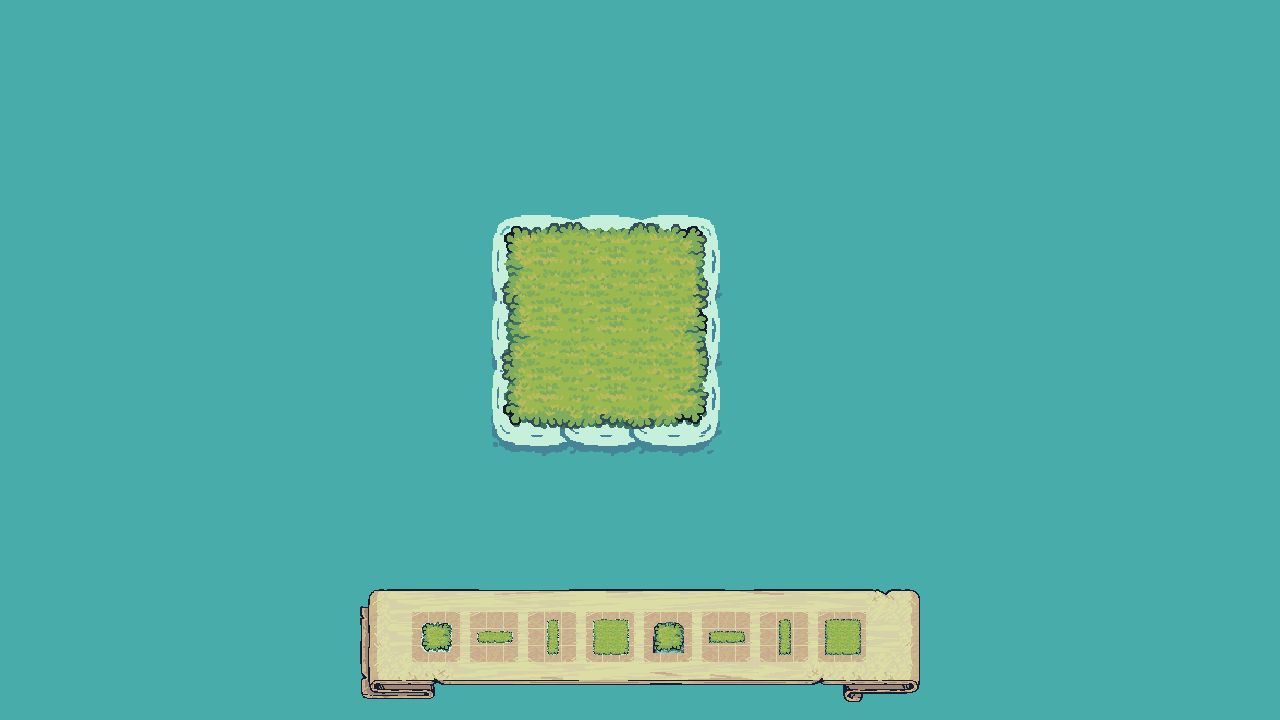
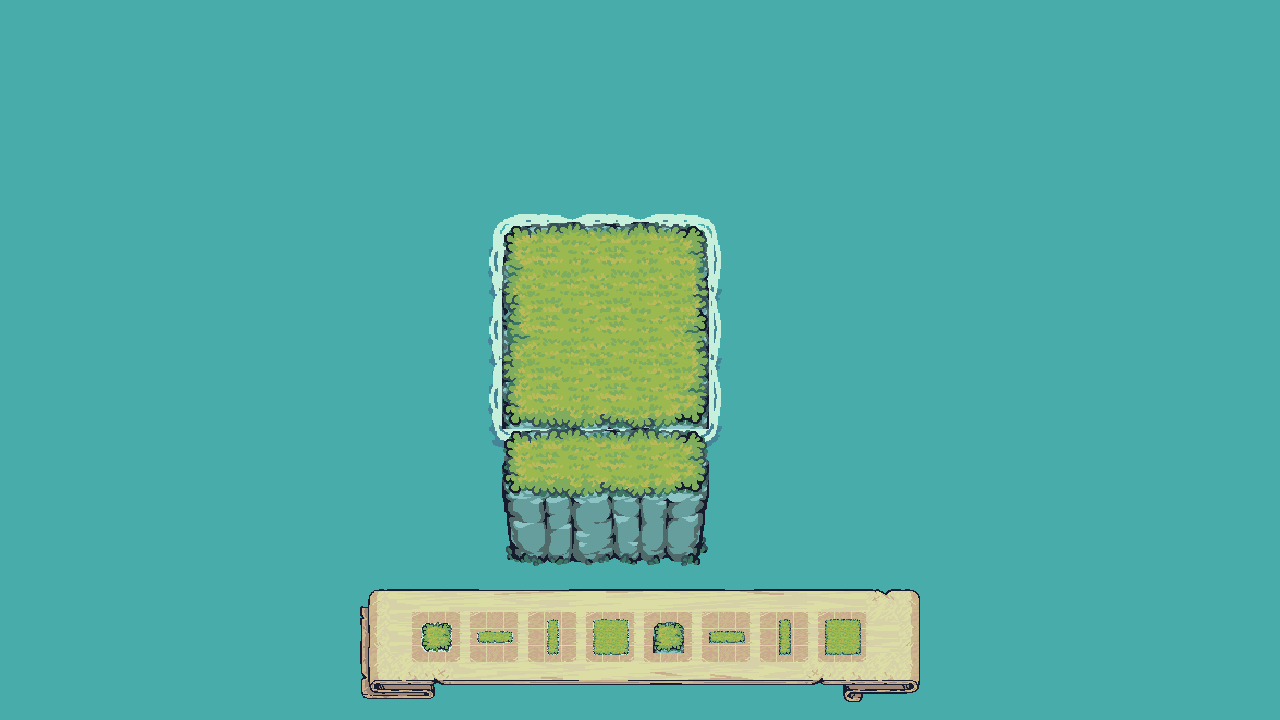
fix(web): render rocks under seeded island

Changed region(s): [[0.375, 0.3056, 0.5625, 0.7944], [0.4062, 0.3056, 0.5, 0.3361]]

diff --git a/apps/web/src/test/grass-placement.test.ts b/apps/web/src/test/grass-placement.test.ts
@@ -10,6 +10,7 @@ import {
   getGrassPlacementPreviewCells,
   getGrassShapeCells,
   getGrassShapeForHudSlot,
+  getIslandTerrainPieces,
   getSecondLayerTerrainPieces,
   getTerrainToolForHudSlot,
   getGridCellFromWorldPoint,
@@ -394,6 +395,28 @@ describe('grass placement model', () => {
       cell: { x: 0, y: 1 },
       occupiedCells: getGrassShapeCells(grassShapes['three-vertical'], { x: 0, y: 0 }),
     })).toBe(12);
+  });
+
+  it('renders first-layer 3x3 islands with a grass face and rock base', () => {
+    expect(getIslandTerrainPieces({
+      occupiedCells: getGrassShapeCells(grassShapes.nine, { x: 4, y: 2 }),
+    })).toEqual([
+      { cell: { x: 4, y: 6 }, frame: 41, surface: 'rock' },
+      { cell: { x: 5, y: 6 }, frame: 42, surface: 'rock' },
+      { cell: { x: 6, y: 6 }, frame: 43, surface: 'rock' },
+      { cell: { x: 4, y: 2 }, frame: 5, surface: 'grass' },
+      { cell: { x: 5, y: 2 }, frame: 6, surface: 'grass' },
+      { cell: { x: 6, y: 2 }, frame: 7, surface: 'grass' },
+      { cell: { x: 4, y: 3 }, frame: 14, surface: 'grass' },
+      { cell: { x: 5, y: 3 }, frame: 15, surface: 'grass' },
+      { cell: { x: 6, y: 3 }, frame: 16, surface: 'grass' },
+      { cell: { x: 4, y: 4 }, frame: 23, surface: 'grass' },
+      { cell: { x: 5, y: 4 }, frame: 24, surface: 'grass' },
+      { cell: { x: 6, y: 4 }, frame: 25, surface: 'grass' },
+      { cell: { x: 4, y: 5 }, frame: 32, surface: 'grass' },
+      { cell: { x: 5, y: 5 }, frame: 33, surface: 'grass' },
+      { cell: { x: 6, y: 5 }, frame: 34, surface: 'grass' },
+    ]);
   });
 
   it('renders second-layer 1x1 as the finished single grass tile with narrow rock height', () => {

diff --git a/apps/web/src/game/FloatingIslandScene.ts b/apps/web/src/game/FloatingIslandScene.ts
@@ -10,6 +10,7 @@ import {
   getGrassPlacementPreviewCells,
   getGrassShapeCells,
   getGrassTerrainFrame,
+  getIslandTerrainPieces,
   getSecondLayerTerrainPieces,
   getTerrainToolForHudSlot,
   getGridCellFromWorldPoint,
@@ -427,8 +428,8 @@ export class FloatingIslandScene extends Phaser.Scene {
       this.waterFoamRoot.add(this.createWaterFoamSprite(cell, gridLeft, gridTop));
     }
 
-    for (const cell of baseCells) {
-      this.grassRoot.add(this.createGrassTile(cell, baseCells, gridLeft, gridTop, 1));
+    for (const piece of getIslandTerrainPieces({ occupiedCells: baseCells })) {
+      this.grassRoot.add(this.createTerrainPiece(piece, gridLeft, gridTop, 1));
     }
 
     for (const piece of getSecondLayerTerrainPieces({ occupiedCells: secondLayerCells })) {

diff --git a/apps/web/src/game/grassPlacement.ts b/apps/web/src/game/grassPlacement.ts
@@ -392,7 +392,17 @@ export function getGrassTerrainFrame(args: {
 export function getSecondLayerTerrainPieces(args: {
   occupiedCells: GridCell[];
 }) {
-  const occupiedCells = getUniqueCells(args.occupiedCells);
+  return getRaisedTerrainPieces(args.occupiedCells);
+}
+
+export function getIslandTerrainPieces(args: {
+  occupiedCells: GridCell[];
+}) {
+  return getRaisedTerrainPieces(args.occupiedCells);
+}
+
+function getRaisedTerrainPieces(terrainCells: GridCell[]) {
+  const occupiedCells = getUniqueCells(terrainCells);
   const occupiedCellKeys = new Set(occupiedCells.map(getCellKey));
   const grassPieces = [...occupiedCells]
     .sort(compareCells)

diff --git a/docs/ai-usage-log.md b/docs/ai-usage-log.md
@@ -227,3 +227,12 @@
 - 测试过程：先把 `sea-level-scene` 测试改为期望默认 3x3 海岛，观察到旧空数组失败，再修改场景计划配置使测试通过。
 - 验证：`pnpm --filter web test` 71/71 通过；`pnpm --filter web lint`、`pnpm --filter web typecheck` 和 `pnpm --filter web build` 通过。Playwright 本地桌面 1280x720 与移动 390x844 均渲染默认 3x3 海岛，加载 `Tilemap_color1.png` 和 `Water Foam.png`，未请求 `Shadow.png`，无 console/request error，帧差确认水浪动画继续播放。
 - 隐私检查：未记录访问密钥、Token、数据库连接串或其他秘密信息。
+
+## 2026-07-26：恢复第一层海岛岩石底座
+
+- 问题：用户指出默认海岛应是带岩石的海岛，而不是只有草地平面。
+- 根因：第一层 `baseCells` 渲染路径只调用 `createGrassTile()` 生成平面草地；岩石/前脸生成逻辑只用于第二层 `getSecondLayerTerrainPieces()`，没有复用于第一层默认岛。
+- AI 贡献：新增 `getIslandTerrainPieces()`，复用 raised terrain piece 生成规则，为第一层草地生成前脸草边和底部岩石 `41/42/43/44`；`FloatingIslandScene` 的第一层渲染改为按 terrain pieces 绘制，默认 3x3 岛现在包含草面、前脸和岩石底座。
+- 测试过程：先新增第一层 3x3 岛应输出草面、前脸和岩石底座的失败测试，再实现 `getIslandTerrainPieces()` 并接入场景。
+- 验证：`pnpm --filter web test` 72/72 通过；`pnpm --filter web lint`、`pnpm --filter web typecheck` 和 `pnpm --filter web build` 通过。Playwright 本地桌面 1280x720 与移动 390x844 均渲染带岩石底座的默认海岛，加载 `Tilemap_color1.png` 和 `Water Foam.png`，未请求 `Shadow.png`，无 console/request error，帧差确认水浪动画继续播放；截图已更新。
+- 隐私检查：未记录访问密钥、Token、数据库连接串或其他秘密信息。
